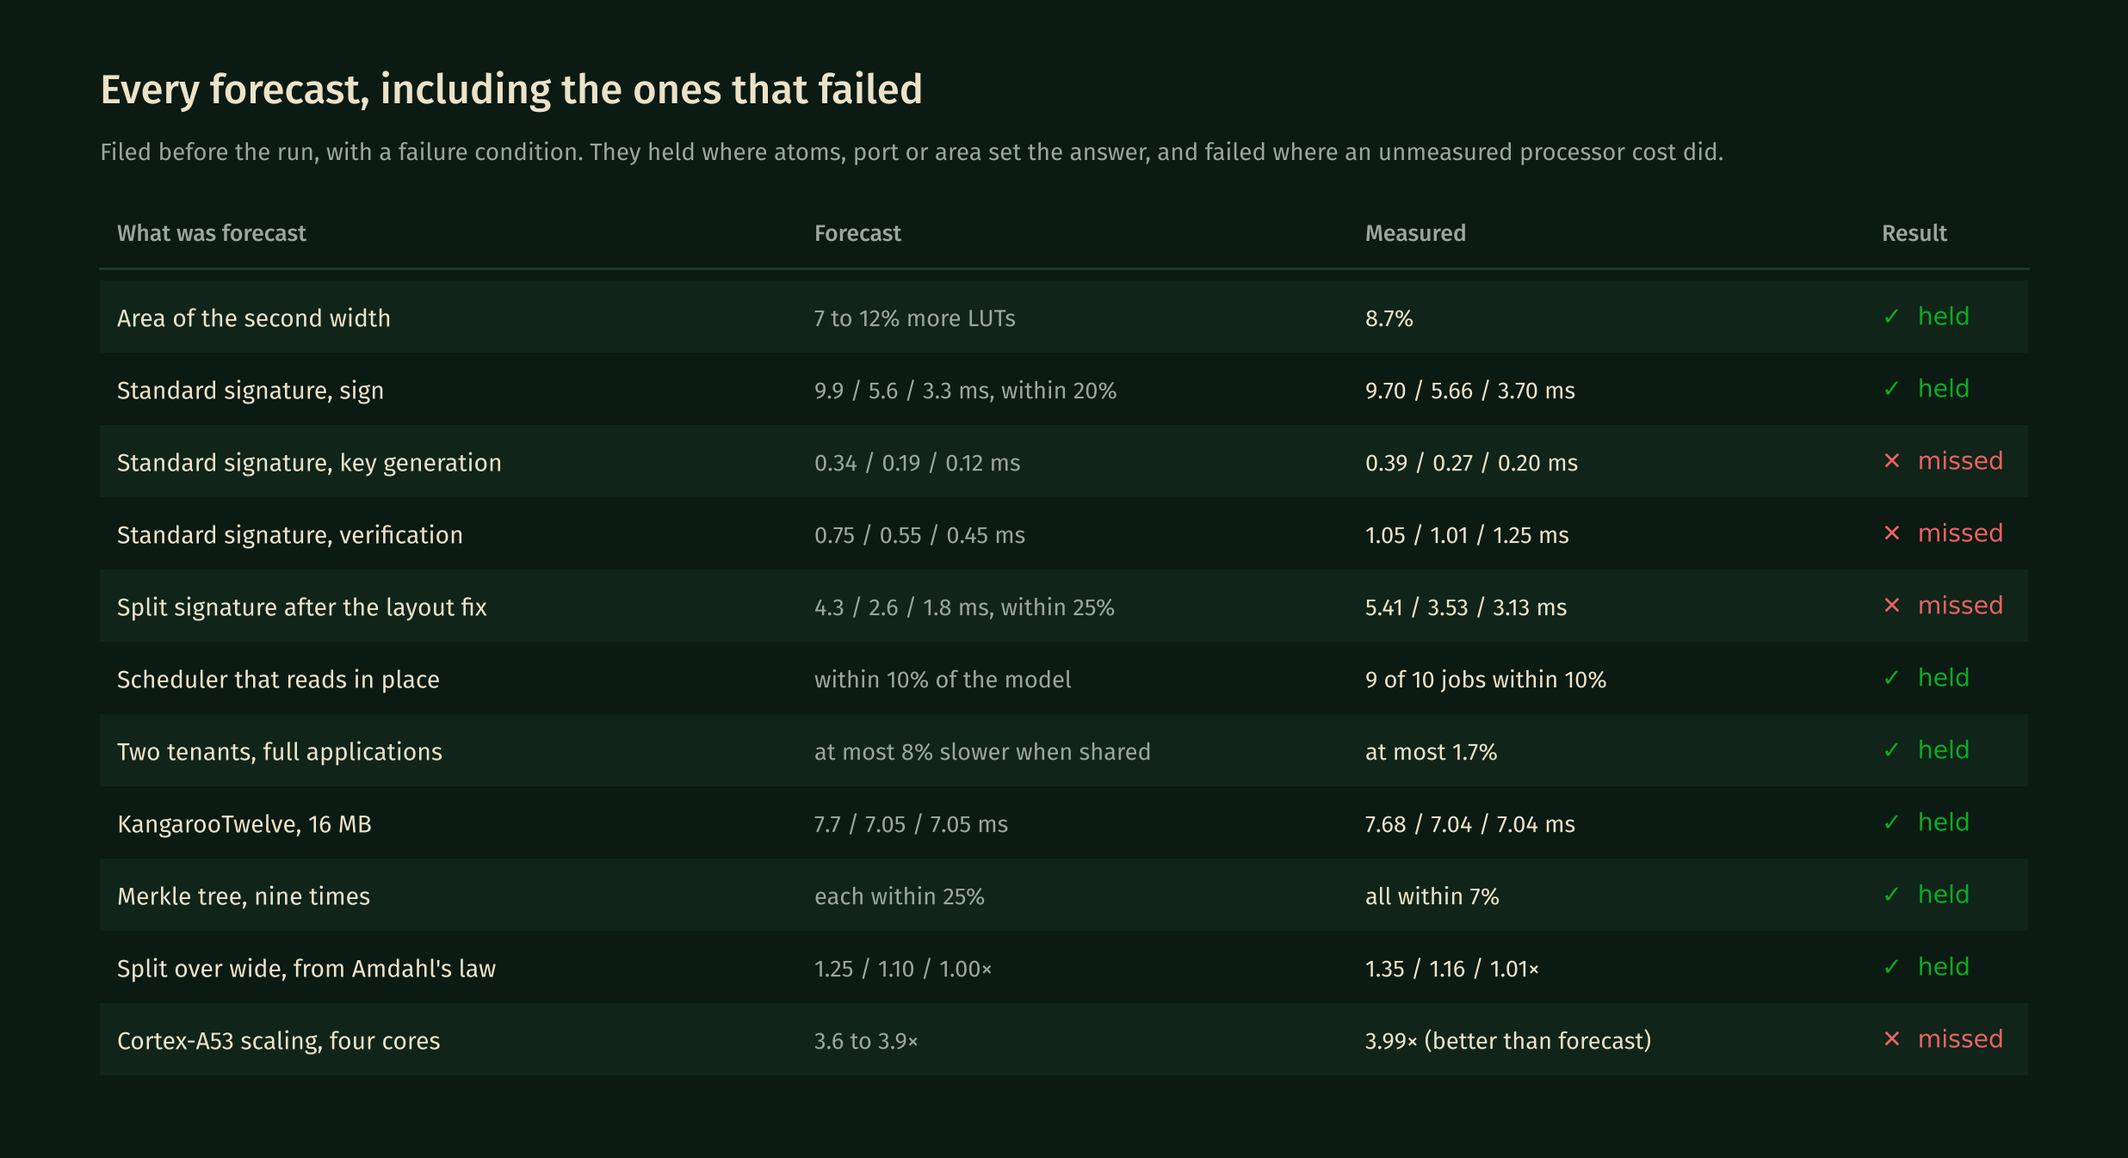
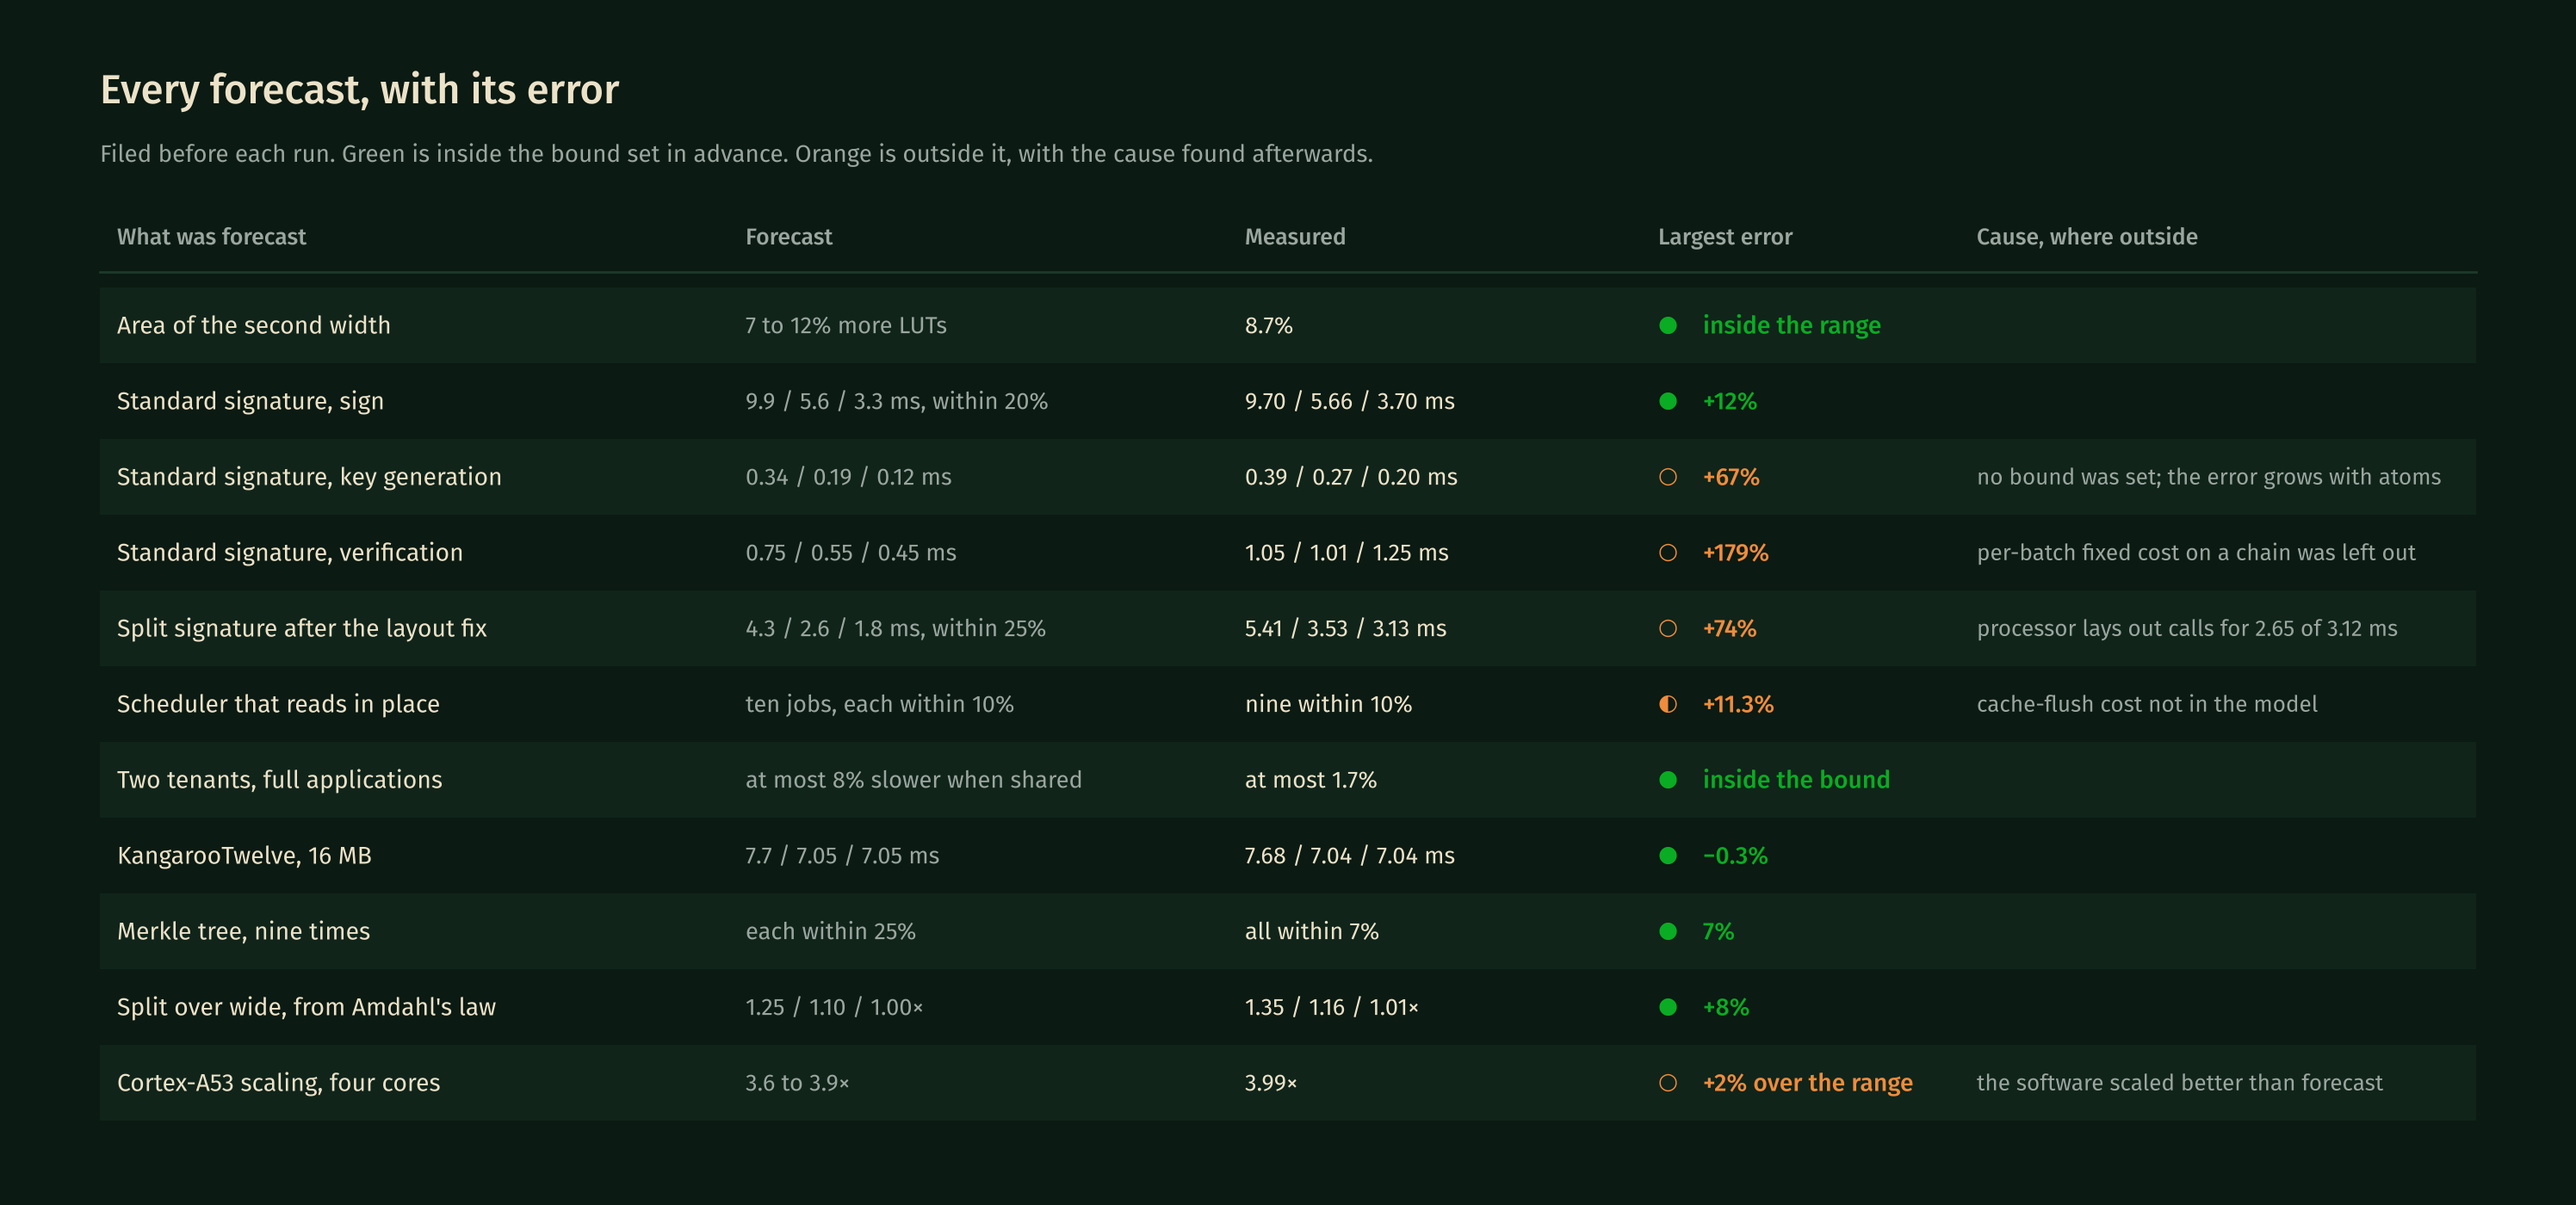
README: forecast figure shows the error and cause of each forecast
Replaces the held/missed column with the largest error of each forecast and, where a forecast fell outside its bound, the cause found afterwards. All eleven forecasts stay. MANIFEST.sha256 updated for the three changed files.

diff --git a/docs/figure_scripts/readme/make_readme_figs2.py b/docs/figure_scripts/readme/make_readme_figs2.py
@@ -104,31 +104,38 @@ def signature():
     save(fig, "signature.png")
 
 # ---------------------------------------------------------------- forecast scorecard
+WARN = "#f08c3c"
 def forecasts():
-    rows = [("Area of the second width", "7 to 12% more LUTs", "8.7%", True),
-            ("Standard signature, sign", "9.9 / 5.6 / 3.3 ms, within 20%", "9.70 / 5.66 / 3.70 ms", True),
-            ("Standard signature, key generation", "0.34 / 0.19 / 0.12 ms", "0.39 / 0.27 / 0.20 ms", False),
-            ("Standard signature, verification", "0.75 / 0.55 / 0.45 ms", "1.05 / 1.01 / 1.25 ms", False),
-            ("Split signature after the layout fix", "4.3 / 2.6 / 1.8 ms, within 25%", "5.41 / 3.53 / 3.13 ms", False),
-            ("Scheduler that reads in place", "within 10% of the model", "9 of 10 jobs within 10%", True),
-            ("Two tenants, full applications", "at most 8% slower when shared", "at most 1.7%", True),
-            ("KangarooTwelve, 16 MB", "7.7 / 7.05 / 7.05 ms", "7.68 / 7.04 / 7.04 ms", True),
-            ("Merkle tree, nine times", "each within 25%", "all within 7%", True),
-            ("Split over wide, from Amdahl's law", "1.25 / 1.10 / 1.00×", "1.35 / 1.16 / 1.01×", True),
-            ("Cortex-A53 scaling, four cores", "3.6 to 3.9×", "3.99× (better than forecast)", False)]
-    fig, ax = canvas(12, 0.42 * len(rows) + 1.75)
-    H = 0.42 * len(rows) + 1.75
-    ax.text(0.4, H - 0.42, "Every forecast, including the ones that failed", color=TXT, fontsize=17, fontweight="medium")
-    ax.text(0.4, H - 0.75, "Filed before the run, with a failure condition. They held where atoms, port or area set the answer, and failed where an unmeasured processor cost did.", color=SUB, fontsize=10)
-    y0 = H - 1.22
-    for x, t in ((0.5, "What was forecast"), (4.55, "Forecast"), (7.75, "Measured"), (10.75, "Result")): ax.text(x, y0, t, color=SUB, fontsize=9.6, fontweight="medium")
-    ax.plot([0.4, 11.6], [y0 - 0.16, y0 - 0.16], color=EDGE, lw=1.0)
-    for i, (what, fc, ms, ok) in enumerate(rows):
-        y = y0 - 0.45 - i * 0.42
-        if i % 2 == 0: ax.add_patch(Rectangle((0.4, y - 0.2), 11.2, 0.42, fc=CARD, ec="none"))
-        ax.text(0.5, y, what, color=TXT, fontsize=10.2, va="center"); ax.text(4.55, y, fc, color=SUB, fontsize=9.8, va="center"); ax.text(7.75, y, ms, color=TXT, fontsize=9.8, va="center")
-        col = GOOD if ok else BAD
-        ax.text(10.75, y, ("✓  held" if ok else "✕  missed"), color=col, fontsize=10.2, va="center", fontweight="medium", fontfamily="DejaVu Sans")
+    # (what, forecast, measured, largest error, state, cause found afterwards); state: 1 inside, 0 outside, 2 nine of ten
+    rows = [("Area of the second width", "7 to 12% more LUTs", "8.7%", "inside the range", 1, ""),
+            ("Standard signature, sign", "9.9 / 5.6 / 3.3 ms, within 20%", "9.70 / 5.66 / 3.70 ms", "+12%", 1, ""),
+            ("Standard signature, key generation", "0.34 / 0.19 / 0.12 ms", "0.39 / 0.27 / 0.20 ms", "+67%", 0, "no bound was set; the error grows with atoms"),
+            ("Standard signature, verification", "0.75 / 0.55 / 0.45 ms", "1.05 / 1.01 / 1.25 ms", "+179%", 0, "per-batch fixed cost on a chain was left out"),
+            ("Split signature after the layout fix", "4.3 / 2.6 / 1.8 ms, within 25%", "5.41 / 3.53 / 3.13 ms", "+74%", 0, "processor lays out calls for 2.65 of 3.12 ms"),
+            ("Scheduler that reads in place", "ten jobs, each within 10%", "nine within 10%", "+11.3%", 2, "cache-flush cost not in the model"),
+            ("Two tenants, full applications", "at most 8% slower when shared", "at most 1.7%", "inside the bound", 1, ""),
+            ("KangarooTwelve, 16 MB", "7.7 / 7.05 / 7.05 ms", "7.68 / 7.04 / 7.04 ms", "−0.3%", 1, ""),
+            ("Merkle tree, nine times", "each within 25%", "all within 7%", "7%", 1, ""),
+            ("Split over wide, from Amdahl's law", "1.25 / 1.10 / 1.00×", "1.35 / 1.16 / 1.01×", "+8%", 1, ""),
+            ("Cortex-A53 scaling, four cores", "3.6 to 3.9×", "3.99×", "+2% over the range", 0, "the software scaled better than forecast")]
+    W = 14.6; RH = 0.44
+    fig, ax = canvas(W, RH * len(rows) + 1.8)
+    H = RH * len(rows) + 1.8
+    ax.text(0.4, H - 0.42, "Every forecast, with its error", color=TXT, fontsize=17, fontweight="medium")
+    ax.text(0.4, H - 0.76, "Filed before each run. Green is inside the bound set in advance. Orange is outside it, with the cause found afterwards.", color=SUB, fontsize=10)
+    y0 = H - 1.24
+    X = (0.5, 4.15, 7.05, 9.45, 11.3)
+    for x, t in zip(X, ("What was forecast", "Forecast", "Measured", "Largest error", "Cause, where outside")): ax.text(x, y0, t, color=SUB, fontsize=9.6, fontweight="medium")
+    ax.plot([0.4, W - 0.4], [y0 - 0.16, y0 - 0.16], color=EDGE, lw=1.0)
+    for i, (what, fc, ms, err, st, why) in enumerate(rows):
+        y = y0 - 0.47 - i * RH
+        if i % 2 == 0: ax.add_patch(Rectangle((0.4, y - RH / 2), W - 0.8, RH, fc=CARD, ec="none"))
+        ax.text(X[0], y, what, color=TXT, fontsize=10.2, va="center"); ax.text(X[1], y, fc, color=SUB, fontsize=9.8, va="center"); ax.text(X[2], y, ms, color=TXT, fontsize=9.8, va="center")
+        col = GOOD if st == 1 else WARN
+        mark = "●" if st == 1 else ("◐" if st == 2 else "○")
+        ax.text(X[3], y, mark, color=col, fontsize=9.5, va="center", fontfamily="DejaVu Sans")
+        ax.text(X[3] + 0.26, y, err, color=col, fontsize=10.2, va="center", fontweight="medium")
+        if why: ax.text(X[4], y, why, color=SUB, fontsize=9.4, va="center")
     save(fig, "forecasts.png")
 
 if __name__ == "__main__":

diff --git a/README.md b/README.md
@@ -71,7 +71,7 @@ and the 2.4% that prior work found behind an accelerator, and it forecast two ap
 
 <p align="center"><img src="docs/img/method.png" alt="gem5 and board measurements feed an event simulator that decides the number of atoms and the scheduler; each forecast is filed, then the board is run" width="100%"></p>
 
-<p align="center"><img src="docs/img/forecasts.png" alt="Eleven forecasts with their measured values: seven held and four missed" width="100%"></p>
+<p align="center"><img src="docs/img/forecasts.png" alt="Eleven forecasts with their measured values, the largest error of each, and the cause where a forecast fell outside its bound" width="100%"></p>
 
 The forecast files are in `results/` exactly as they were written. Git does not keep modification times, so `MANIFEST.sha256` records
 the time of every file as it stood on the author's disk.
